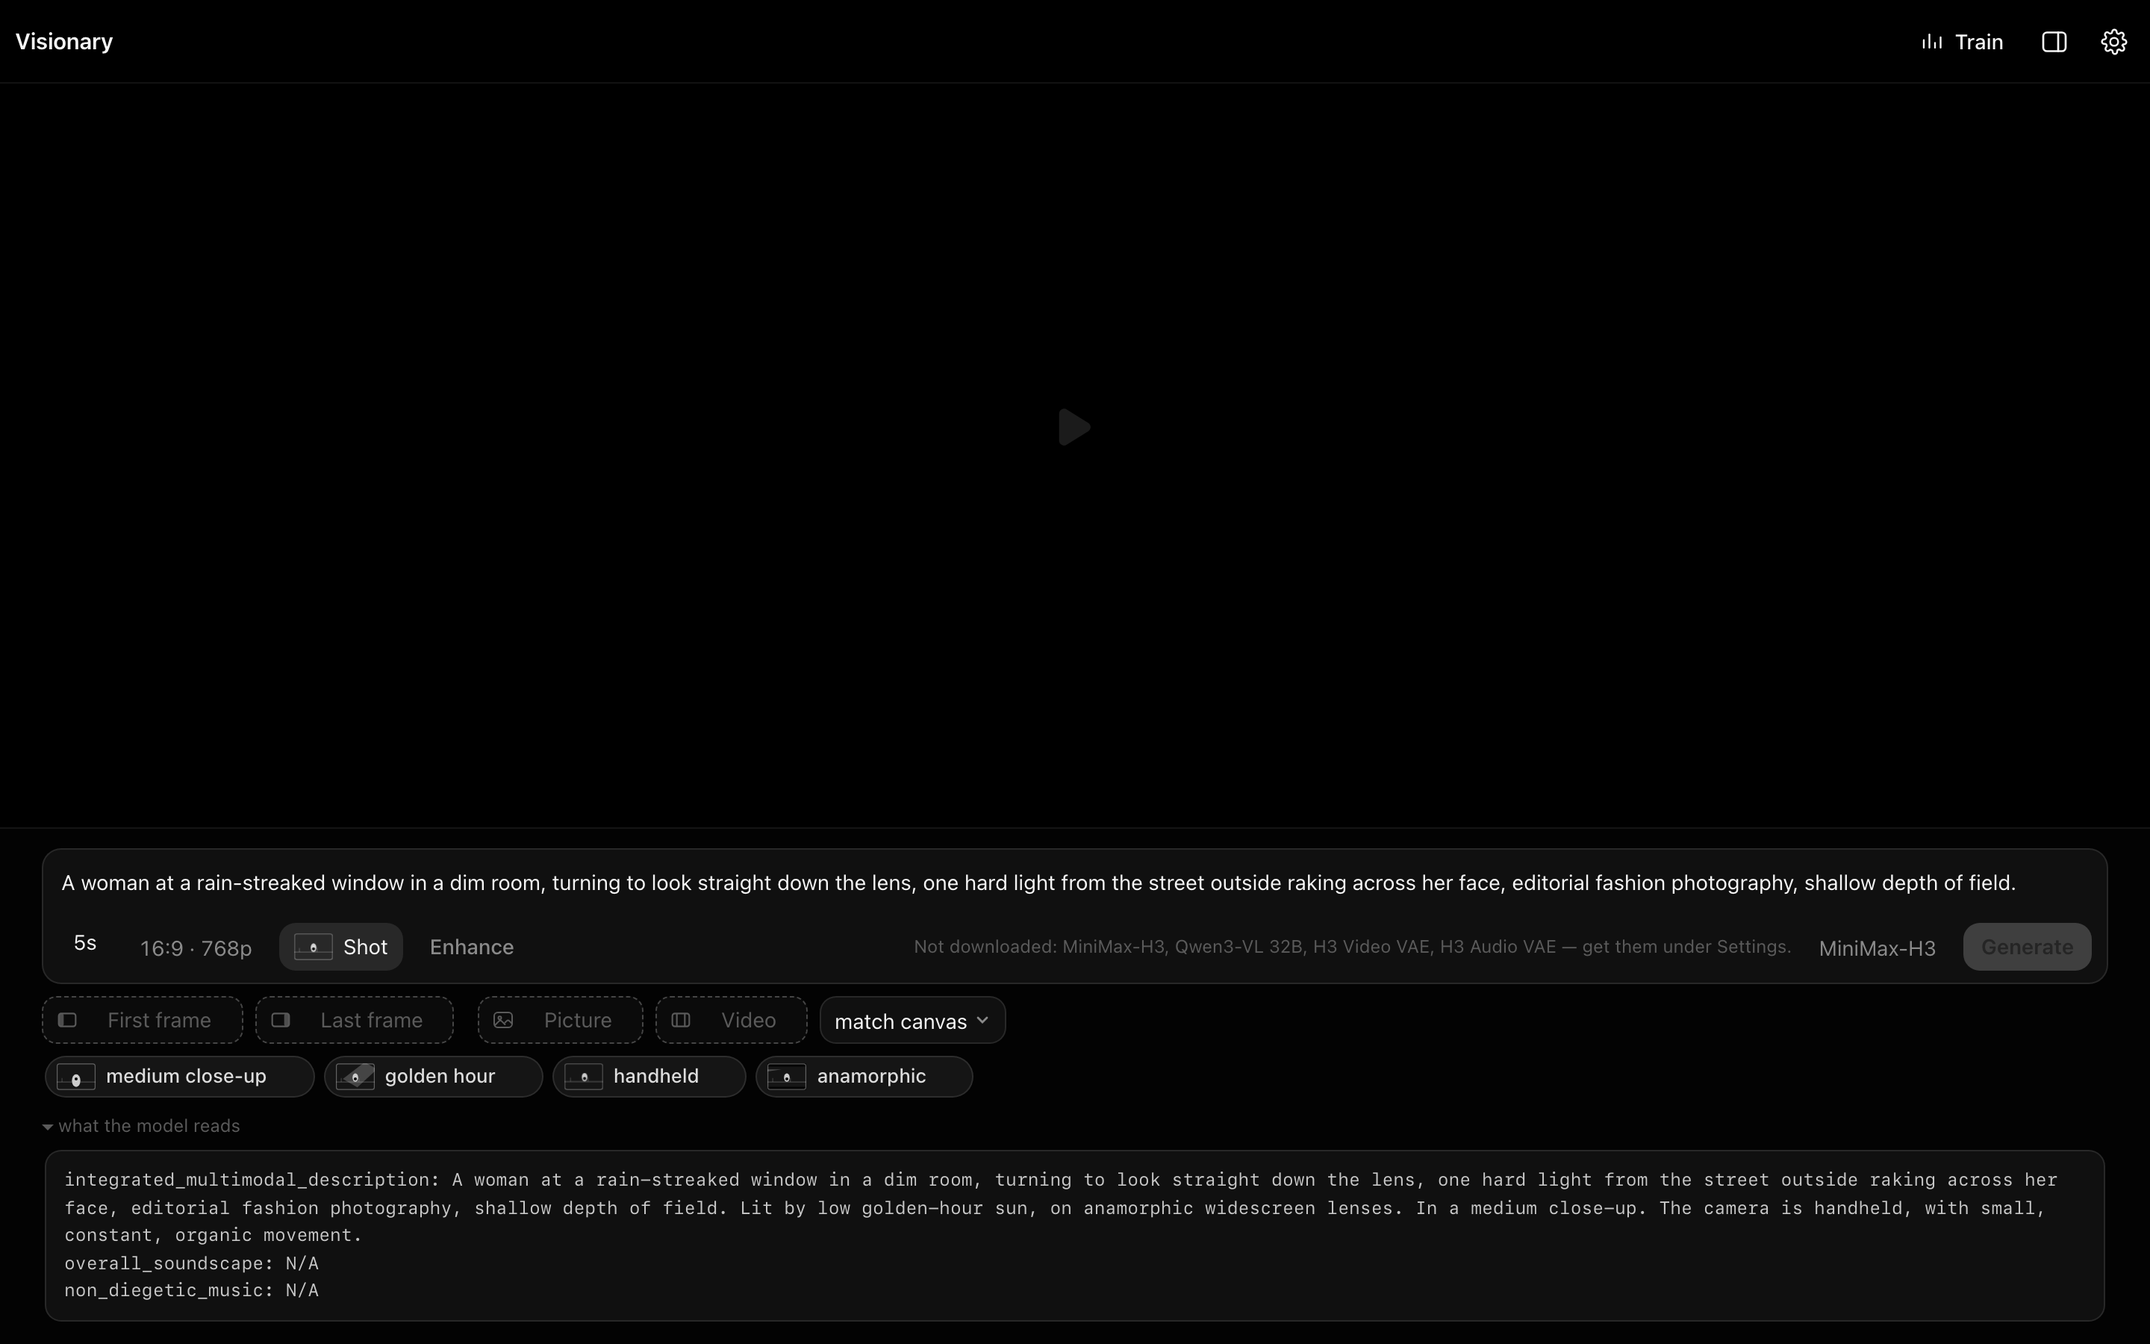
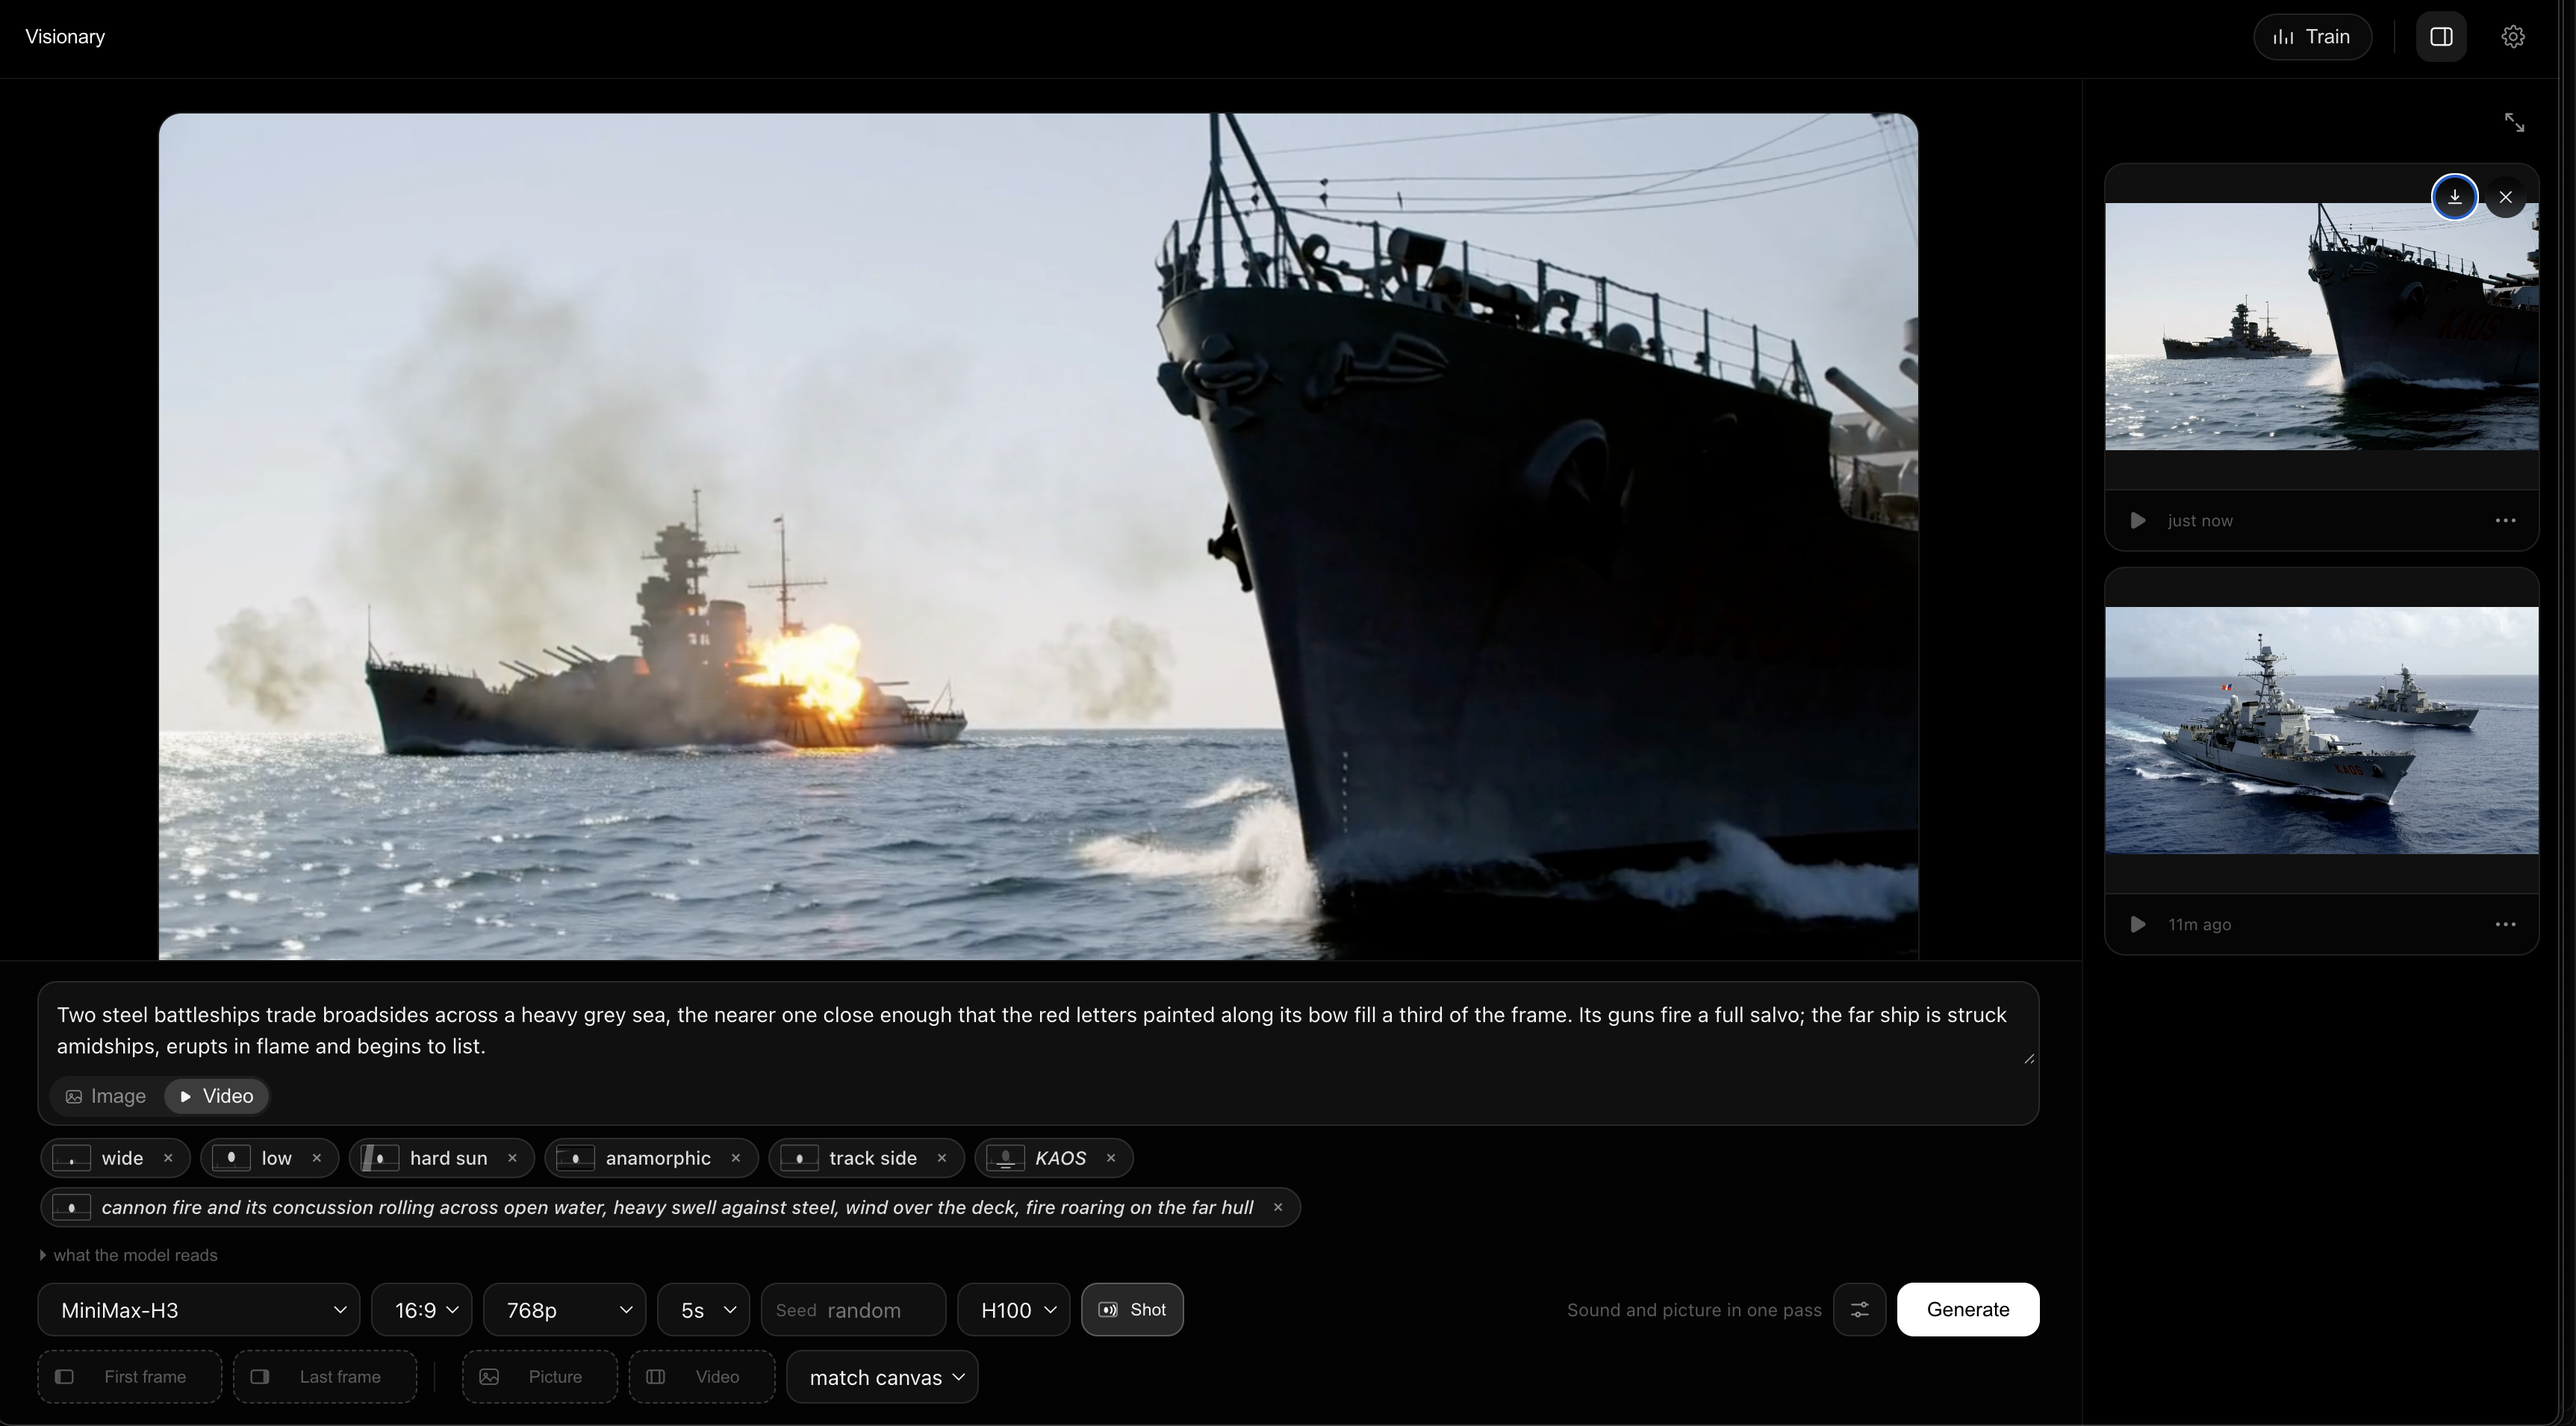
Use the real take for the video section, and say what it costs
These two are the person's own captures rather than the script's. Mine
rendered the prompt correctly — two ships, red letters on the bow, and
the on-screen-text pill did put KAOS on the hull — but theirs has the
salvo landing, the far ship in flame and beginning to list, which is the
moment the prompt is about and the one a still has to carry.

**The caveat, so nobody has to rediscover it.** They are from an earlier
build and show the Image/Video chip, which no longer exists — duration
replaced it, and the README says so three sections above. That is a
contradiction a reader can see, and it is accepted deliberately as a
placeholder until the shot is retaken on the current UI. Every other
image in `docs/` is current.

Compositing the take onto new chrome was tried and abandoned: their clip
sits at different coordinates because the old console was a different
height, so the crop kept catching their prompt box. Detecting the clip by
brightness fails on a near-black hull, and by variance it finds the whole
window. Retaking it is a minute of work and the right answer.

Also recorded, since it cost a detour: `chromium-headless-shell` and real
Chrome render text identically here — 3.50 edge energy against 3.50, with
a macOS screen capture at 2.79. Perceived softness was the downscaled
previews, not the captures.

diff --git a/README.md b/README.md
@@ -52,7 +52,7 @@ static picture does. A dolly changes the relationship between subject and
 background and a zoom does not, so push-in scales the subject faster than the
 horizon and zoom scales both — a distinction no dropdown makes.
 
-![What you picked, and the document it compiles to](docs/video.png)
+![A take, the pills that produced it, and the gallery beside it](docs/video.png)
 
 Pick nothing and the compiler returns your typed text byte for byte, so every
 prompt written before this still means what it meant. Pick something and the
